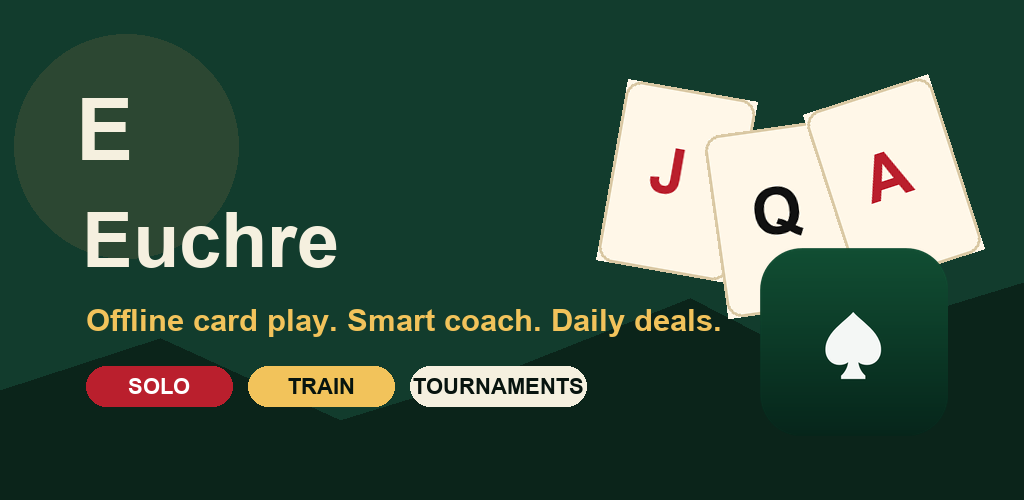
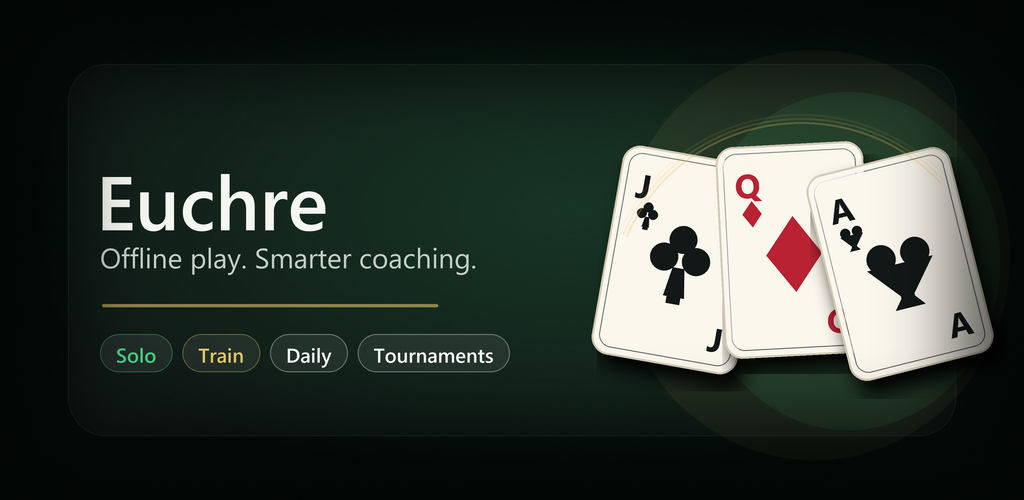
Redesign Play feature graphic

diff --git a/docs/play-store/asset-manifest.md b/docs/play-store/asset-manifest.md
@@ -5,7 +5,8 @@ Last updated: June 30, 2026
 ## Required assets
 
 - App icon: `icons/icon-512.png`
-- Feature graphic: `docs/play-store/assets/feature-graphic-1024x500.png`
+- Feature graphic: `docs/play-store/assets/feature-graphic-1024x500.jpg`
+- Source-quality feature graphic: `docs/play-store/assets/feature-graphic-1024x500.png`
 - Phone screenshots: `docs/play-store/assets/screenshots/phone-*.png` after screenshot generation
 
 ## Current asset rules
@@ -16,7 +17,7 @@ Last updated: June 30, 2026
 
 ## Alt text drafts
 
-- Feature graphic: Euchre game logo with cards and offline play modes.
+- Feature graphic: Premium Euchre wordmark, polished card fan, and offline play modes.
 - Home screenshot: Euchre home screen showing Solo, Train, Daily Deal, and Tournaments.
 - Gameplay screenshot: Euchre hand in progress with trump, score, and playable cards.
 - Coach screenshot: Train mode coach panel explaining the recommended move.
